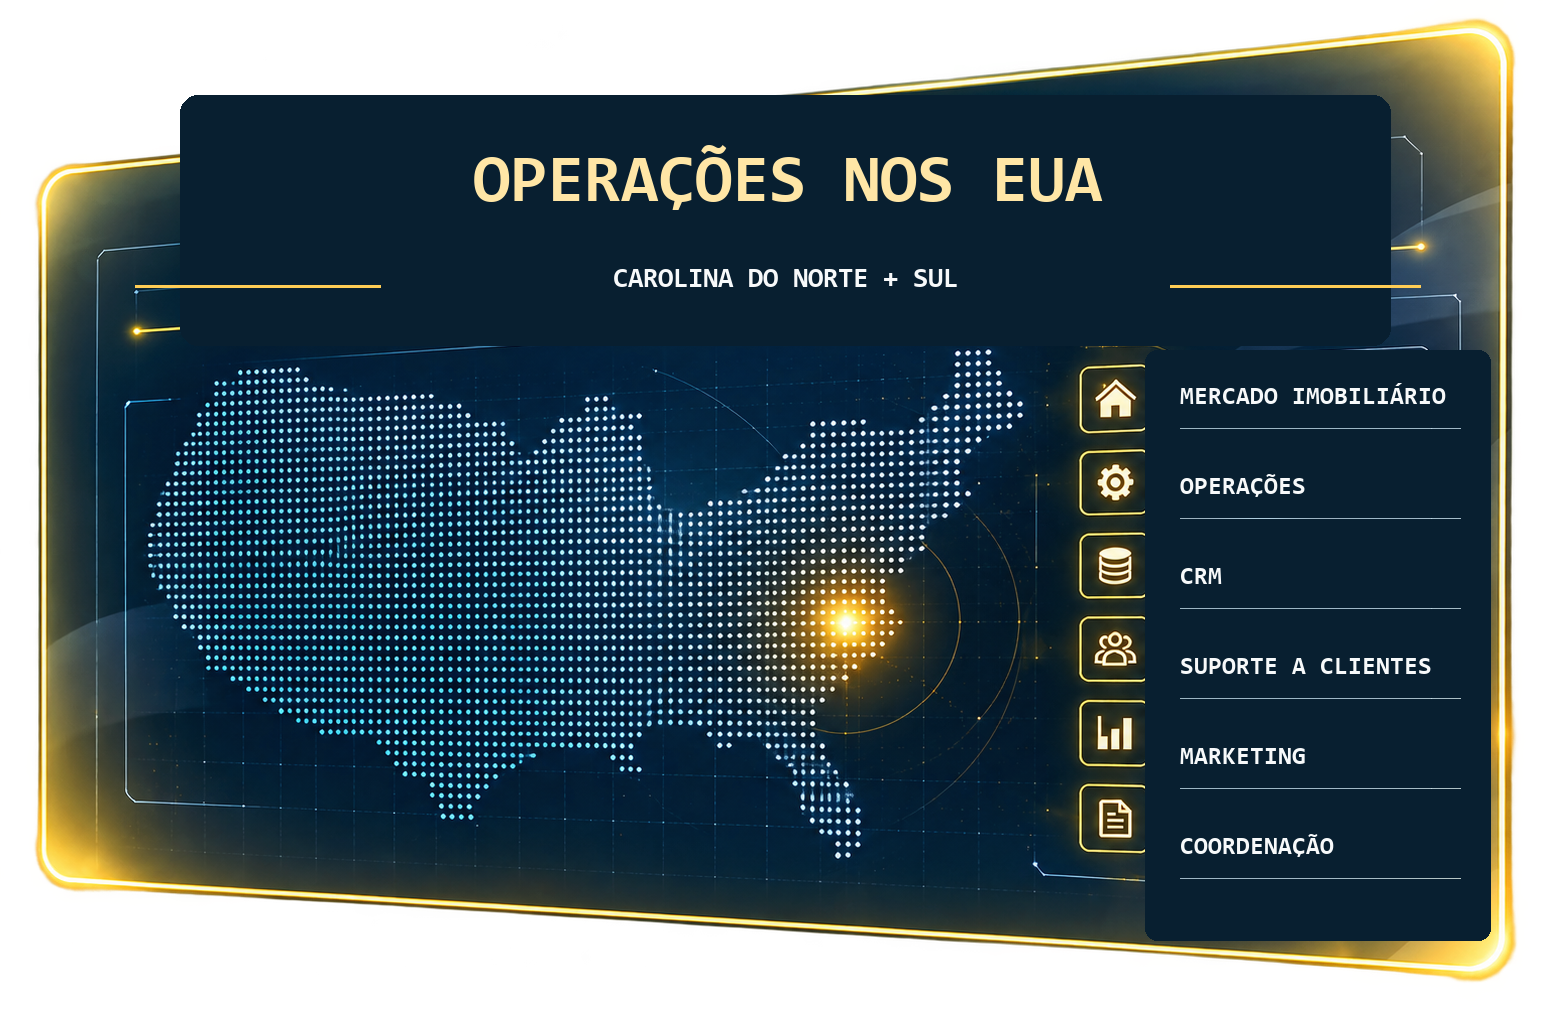
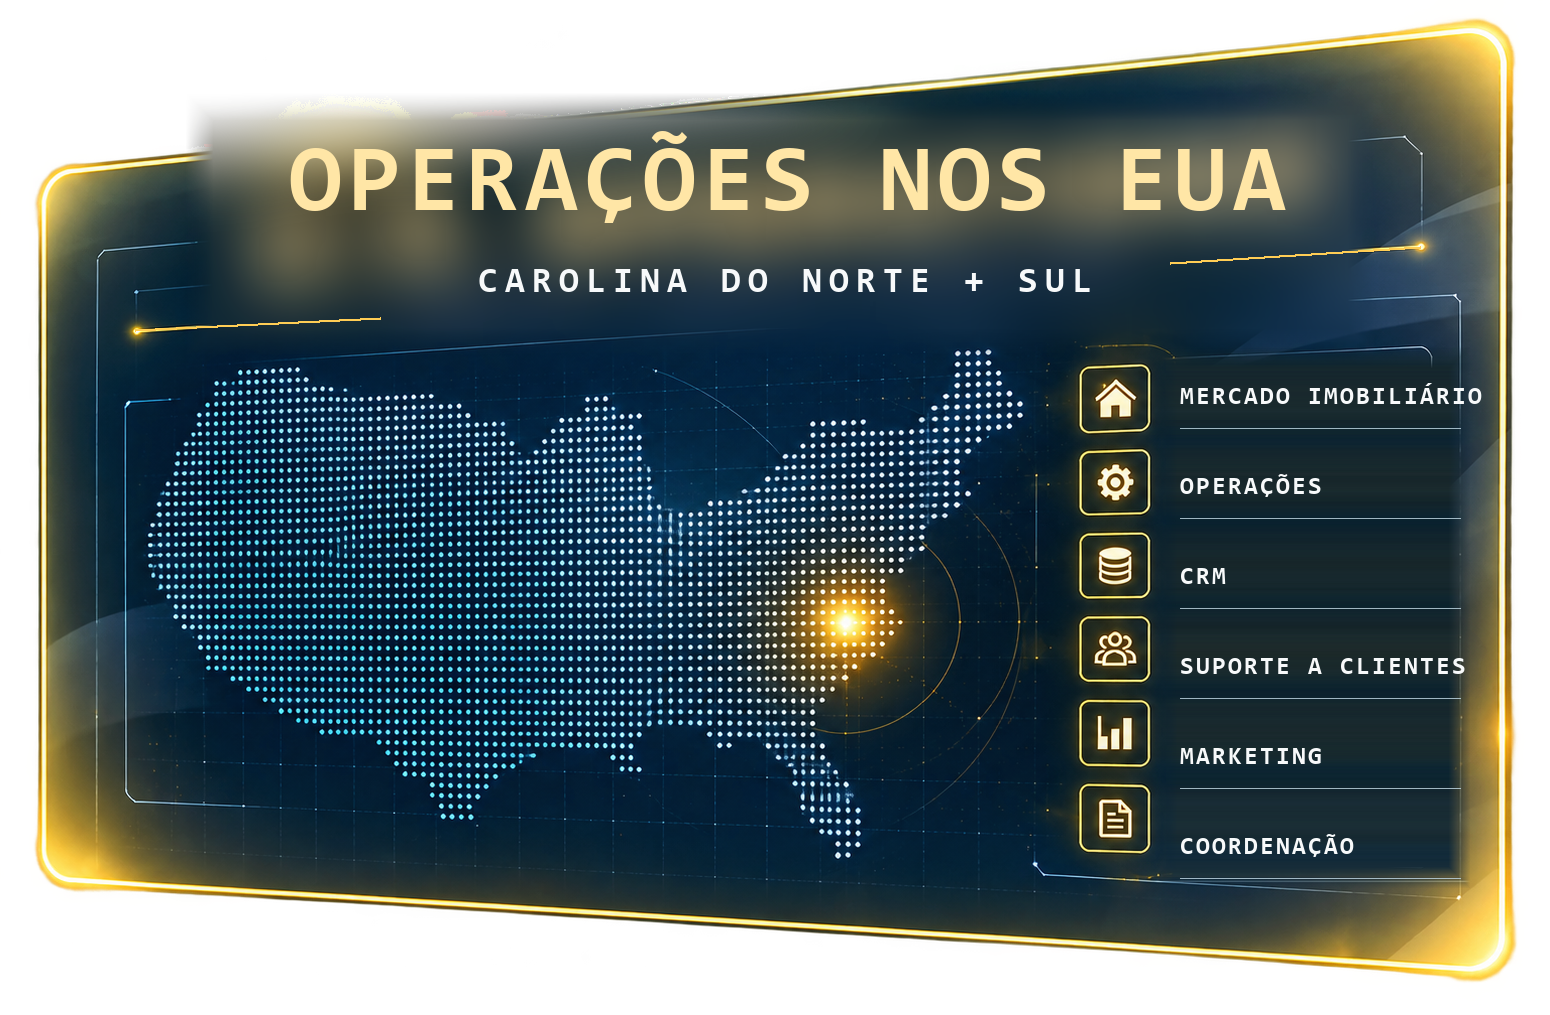
fix: rebuild localized panels from frozen EN composite

diff --git a/tools/build_localized_panels.py b/tools/build_localized_panels.py
@@ -5,37 +5,88 @@ ROOT = Path(__file__).resolve().parents[1]
 asset_dir = ROOT / "assets" / "remote"
 source = Image.open(asset_dir / "REMOTE_PANEL_REFERENCE_COMPOSITE_EN_20260930.png").convert("RGBA")
 font_path = r"C:\Windows\Fonts\consolab.ttf"
-font_title = ImageFont.truetype(font_path, 68)
-font_region = ImageFont.truetype(font_path, 28)
+font_title = ImageFont.truetype(font_path, 96)
+font_region = ImageFont.truetype(font_path, 36)
 font_item = ImageFont.truetype(font_path, 25)
 
-def centered(draw, box, text, font, fill, spacing=0):
+def fit_title_font(draw, text, max_width=1050):
+    size = 96
+    while size > 64:
+        font = ImageFont.truetype(font_path, size)
+        if tracked_width(draw, text, font, 6) <= max_width:
+            return font
+        size -= 1
+    return ImageFont.truetype(font_path, 64)
+
+def tracked_width(draw, text, font, tracking):
+    return sum(draw.textlength(char, font=font) for char in text) + max(0, len(text) - 1) * tracking
+
+def draw_tracked(draw, xy, text, font, fill, tracking):
+    x, y = xy
+    for char in text:
+        draw.text((x, y), char, font=font, fill=fill)
+        x += draw.textlength(char, font=font) + tracking
+
+def centered(draw, box, text, font, fill, tracking=0):
     x0, y0, x1, y1 = box
     bbox = draw.textbbox((0, 0), text, font=font, stroke_width=0)
-    x = x0 + ((x1 - x0) - (bbox[2] - bbox[0])) / 2
+    width = tracked_width(draw, text, font, tracking)
+    x = x0 + ((x1 - x0) - width) / 2
     y = y0 + ((y1 - y0) - (bbox[3] - bbox[1])) / 2 - bbox[1]
-    draw.text((x, y), text, font=font, fill=fill, spacing=spacing)
+    draw_tracked(draw, (x, y), text, font, fill, tracking)
+
+def apply_feathered_patch(image, rect, patch, feather=24):
+    x0, y0, x1, y1 = rect
+    width, height = patch.size
+    mask = Image.new("L", (width, height), 0)
+    mp = mask.load()
+    for y in range(height):
+        for x in range(width):
+            edge = min(x, y, width - 1 - x, height - 1 - y)
+            mp[x, y] = min(255, round(edge * 255 / feather))
+    image.paste(patch, (x0, y0), mask)
+
+def replace_with_soft_glass(image, rect, radius):
+    """Erase baked glyphs while retaining a feathered version of the glass."""
+    x0, y0, x1, y1 = rect
+    patch = source.crop((x0, y0, x1 + 1, y1 + 1)).filter(ImageFilter.GaussianBlur(radius))
+    apply_feathered_patch(image, rect, patch, feather=28)
+
+def replace_list_glass(image, rect):
+    """Use the clean left edge of the list glass as its local background."""
+    x0, y0, x1, y1 = rect
+    patch = Image.new("RGBA", (x1 - x0 + 1, y1 - y0 + 1))
+    source_px = source.load()
+    patch_px = patch.load()
+    for y in range(y0, y1 + 1):
+        color = source_px[1155, y]
+        for x in range(x0, x1 + 1):
+            patch_px[x - x0, y - y0] = color
+    apply_feathered_patch(image, rect, patch, feather=22)
 
 def build(code, title, region, items):
     image = source.copy()
+    # The source is the frozen EN composite. Only the title/list text zones
+    # are rebuilt from untouched glass samples; map, glows and borders survive.
+    replace_with_soft_glass(image, (185, 92, 1375, 355), 32)
+    replace_list_glass(image, (1155, 346, 1470, 888))
+
     overlay = Image.new("RGBA", image.size, (0, 0, 0, 0))
     draw = ImageDraw.Draw(overlay)
-    panel = (8, 31, 48, 255)
     gold = (255, 230, 166, 255)
     white = (247, 249, 250, 255)
+    localized_title_font = fit_title_font(draw, title)
 
-    # Replace only the baked English title while retaining the original panel, map and light.
-    draw.rounded_rectangle((180, 95, 1390, 345), radius=18, fill=panel)
-    centered(draw, (230, 125, 1345, 230), title, font_title, gold)
-    centered(draw, (360, 242, 1210, 315), region, font_region, white)
-    draw.line((135, 286, 380, 286), fill=(255, 205, 85, 255), width=3)
-    draw.line((1170, 286, 1420, 286), fill=(255, 205, 85, 255), width=3)
+    # Match the EN tracking and luminous hierarchy.
+    centered(draw, (230, 120, 1345, 235), title, localized_title_font, gold, tracking=6)
+    centered(draw, (360, 246, 1210, 316), region, font_region, white, tracking=7)
+    draw.line((135, 330, 380, 318), fill=(255, 205, 85, 255), width=3)
+    draw.line((1170, 263, 1420, 247), fill=(255, 205, 85, 255), width=3)
 
-    # Replace list text only; icons remain from the frozen EN composition.
-    draw.rounded_rectangle((1145, 350, 1490, 940), radius=12, fill=panel)
+    # Replace list text only; icons, glows and panel lines remain from EN.
     y_positions = [385, 475, 565, 655, 745, 835]
     for y, item in zip(y_positions, items):
-        draw.text((1180, y), item, font=font_item, fill=white)
+        draw_tracked(draw, (1180, y), item, font_item, white, tracking=2)
         draw.line((1180, y + 43, 1460, y + 43), fill=(190, 214, 226, 210), width=1)
 
     image = Image.alpha_composite(image, overlay)
